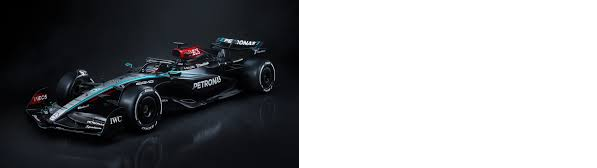
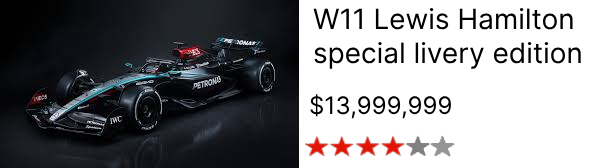
Finnished button Remove and made new image rules(via discord), slider is the one thats missing

diff --git a/templates/pages/cart/cart.html b/templates/pages/cart/cart.html
@@ -34,14 +34,17 @@
         <div id="stuff">
             <div id="images">
                 <div class="informationBox">
-                    <img src="../images/lewisHamilton.png" alt="Lewis Hamilton F1 Car">
-                    <div class="imgDescription">
-                        <p class="productName">W11 Lewis Hamilton special livery edition</p>
-                    </div>
+                    <img src="../images/cartImages/lewisHamiltonCartIMG.png" alt="Lewis Hamilton F1 Car">
+                    <!--- <div class="imgDescription">
+                        <p class="productName" >W11 Lewis Hamilton special livery edition</p>
+                        <p class="Prize">$Prize</p>
+                        <img class="stars" src="../images/cartImages/FourStars.png" alt="FourStars">
+                    </div> --->
+                    <button class="removeButton">Remove</button>
                 </div>
                 <div class="informationBox">
-                    <img src="../images/cartImages/HASSTHABEST (1).png" alt="K-MAG 2023 edition img">
-                    <div class="imgDescription"></div>
+                    <img src="../images/HASSTHABEST.png" alt="K-MAG 2023 edition img">
+                    <button class="removeButton">Remove</button>
                 </div>
 
             </div>

diff --git a/templates/pages/cart/cart.css b/templates/pages/cart/cart.css
@@ -22,11 +22,11 @@
 }
 #images img{
     padding-left: 10%;
-    width: 40%;
-    height: 50%;
-    margin: auto;
-    margin-left: 0;
-    margin-right: 0;
+    width: 80%;
+    height: 90%;
+    margin: 0%;
+    margin-top: 2%;
+    box-sizing: border-box;
 }
 main{
     background-image: url("../images/AudiF1CarIsGoated.png");
@@ -37,8 +37,9 @@ main{
     background-color: #ffffff;
     color: black;
     width: 40%;
-    height: 50%;
+    height: 100%;
     margin: 0;
+    padding: 0;
 }
 #cartName{
     color:#E01506;
@@ -57,11 +58,37 @@ main{
     font-size: 24;
 }
 .informationBox{
+    height: 120%;
     display: flex;
 }
 .productName{
     vertical-align: text-top;
     text-align: left;
     padding: 0%;
-    font-size: 80%;
+    font-size: 20px;
+    margin: 0%;    
+}
+#images  img.stars{
+    padding: 0%;
+}
+.Prize{
+    margin: 0;
+    margin-top: 27px;
+}
+.informationBox .removeButton{
+    border-style: solid;
+    border-radius: 0px;
+    border-color: #E01506;
+    background-color: #E01506;
+    color: #ffffff;
+    width: 6%;
+    height: 6%;
+    left: 57%;
+    margin-top: 6%;
+    position: absolute;
+    font-size: 17px;
+    /*flexbox*/
+    display: flex;
+    justify-content: center;
+    align-items: center;
 }
